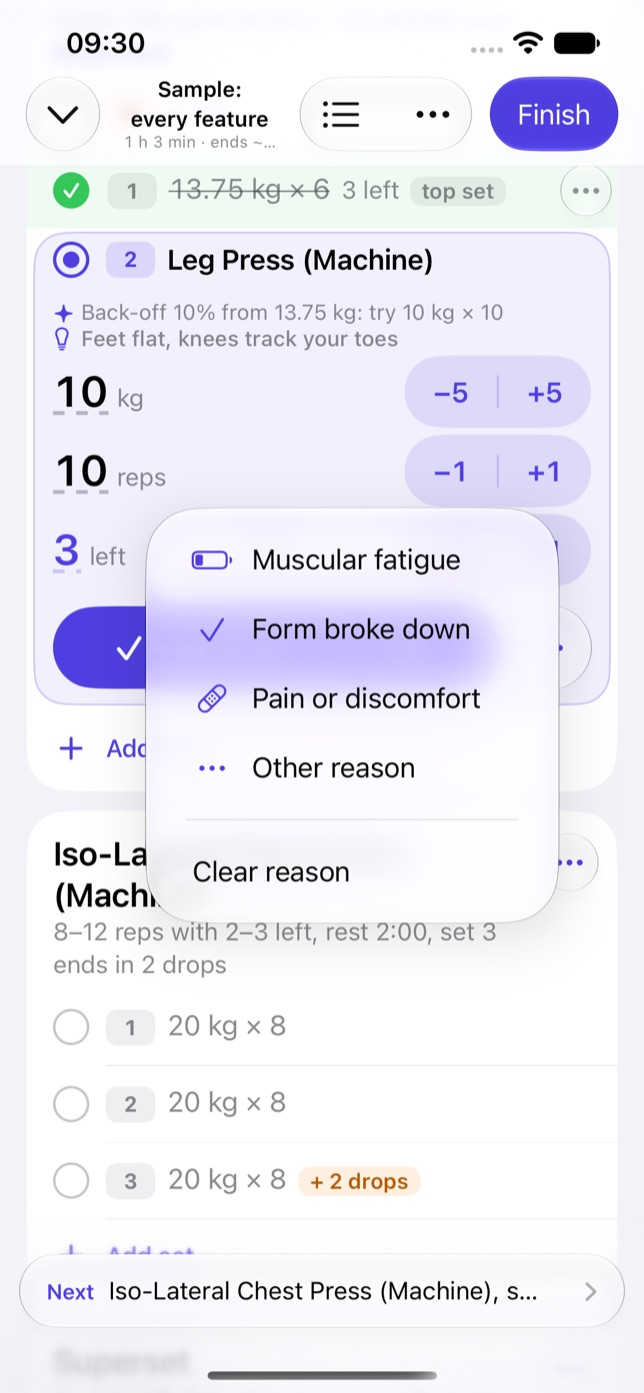
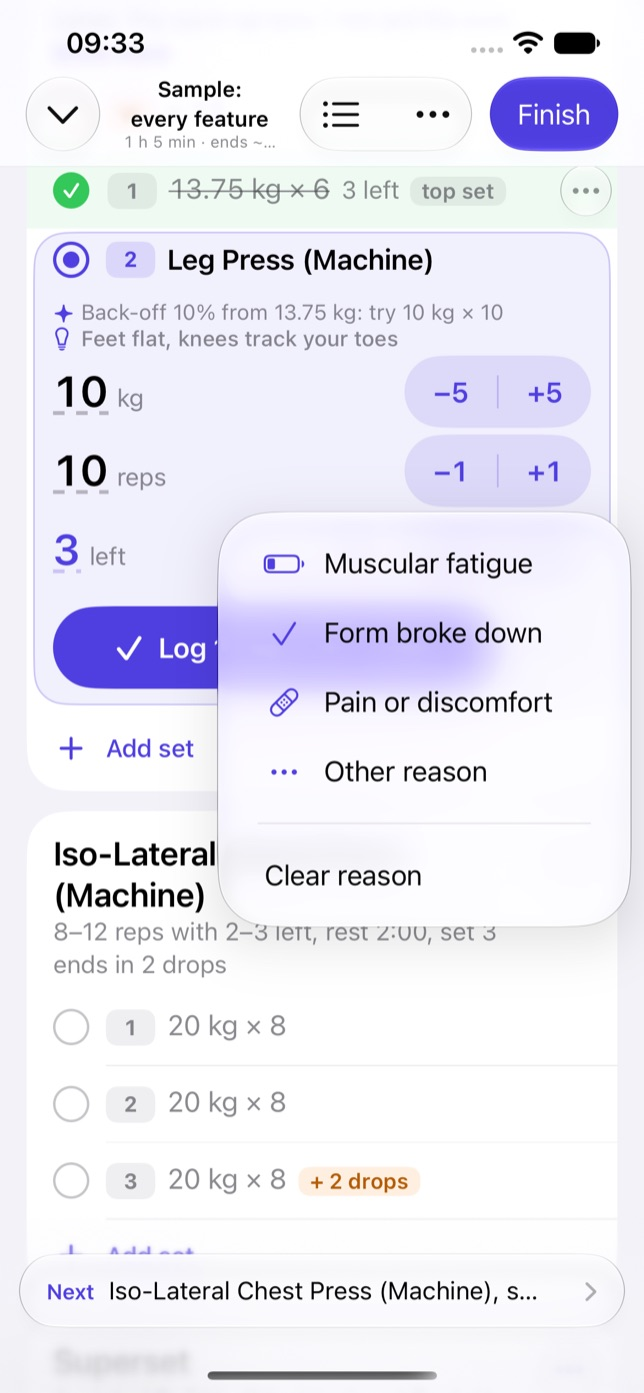
fix(workouts): the reset sits next to the steps on every row, why the set ended before it
On reps left the ? came between the reset and the steps, so the reset moved between rows; it is now in one column on all three. The screenshots are retaken on this build.

diff --git a/apps/workouts/apple/Sources/Views/Session/Rows/RowsEditorPanel.swift b/apps/workouts/apple/Sources/Views/Session/Rows/RowsEditorPanel.swift
@@ -406,8 +406,8 @@ private struct RowsLogVisibility: ViewModifier {
 
 /// One value row of the open set, the same for load, reps and reps left:
 /// the value on the left (its number, unit and last time under them), and
-/// on the right, under the thumb, its round buttons (the reset, why the set
-/// ended) and then the `−step +step` stepper. Where one row cannot hold them
+/// on the right, under the thumb, its round buttons (why the set ended,
+/// then the reset, always next to the steps) and then the `−step +step` stepper. Where one row cannot hold them
 /// (larger text) the buttons go under the stepper; at the accessibility
 /// sizes the buttons and the stepper go under the value.
 struct RowsValueRow<Value: View, Buttons: View>: View {
@@ -636,8 +636,8 @@ struct RowsStepper: View {
 
 /// Reps left, a third value row like load and reps: the number (drawn in
 /// the accent colour once it is the lifter's rating; a tap on the plan's
-/// value rates it as it is), its unit and last time under them, then the
-/// reset, why the set ended as a `?` button, and `−1 | +1`.
+/// value rates it as it is), its unit and last time under them, then why
+/// the set ended as a `?` button, the reset, and `−1 | +1`.
 struct RowsEffortRow: View {
     let effort: RowsEffort
     let tint: Color
@@ -649,10 +649,12 @@ struct RowsEffortRow: View {
         RowsValueRow(stepper: RowsStepper(minus: effort.minus, plus: effort.plus, tint: tint, onPatch: onPatch)) {
             value
         } buttons: {
-            RowsResetButton(reset: effort.reset, tint: tint, onPatch: onPatch)
+            // The reset next to the steps on every row, where it always is;
+            // why the set ended before it.
             if let stop = effort.stop {
                 RowsStopMenuButton(menu: stop, tint: tint, onPatch: onPatch)
             }
+            RowsResetButton(reset: effort.reset, tint: tint, onPatch: onPatch)
         }
     }
 

diff --git a/apps/workouts/DESIGN.md b/apps/workouts/DESIGN.md
@@ -2157,7 +2157,7 @@ the undo offer, whether the open editor is scrolled out of view) and compute no 
 | |     last 105                                 | |
 | |     8 reps                       ( −1 | +1 ) | |
 | |     last 10                                  | |
-| |     2 left             (↺)  (?)  ( −1 | +1 ) | |  <- reps left, and why the set ended, a menu
+| |     2 left             (?)  (↺)  ( −1 | +1 ) | |  <- reps left, and why the set ended, a menu
 | |     last 2                                   | |
 | | [       ✓ Log 110 kg × 8 · 2 left       ]    | |
 | +----------------------------------------------+ |
@@ -2253,7 +2253,8 @@ line when fixing). In order:
   changed, nor does what is written (owner, 2026-11-02). When the row is narrow (larger text) the round buttons go
   under the stepper; at the accessibility sizes the buttons and the stepper go under the value.
 - Reps left (`RowsEffort`, owner, 2026-11-05), a third value built like the others: the number, "left" (as the Log
-  button says it), `last` under them, the reset and why the set ended as round buttons, and "−1 | +1" under the thumb (on a timed or distance set, the scale's word,
+  button says it), `last` under them, why the set ended and then the reset as round buttons (the reset next to the
+  steps, where it is on every row, owner, 2026-11-06), and "−1 | +1" under the thumb (on a timed or distance set, the scale's word,
   "Hard", "effort", and Easier and Harder; §4.14). A long press on the number offers "Clear reps left". 0 to 4,
   where 4 reads "4+" (RPE 6, "could do 4 or more"); a value with a half point from an import or an older entry reads
   "1–2", and a step from it lands on the whole count beside it. The plan's value (and a pre-filled or copied one) is
@@ -2263,8 +2264,8 @@ line when fixing). In order:
   steps start from last time's rating, else 2. The value is still `rpe` on the RIR-based scale, RPE = 10 − reps
   left, so nothing that reads it changes (§4.14). Folded behind "Reps left" when there is nothing to show (a warm-up,
   a timed set, or a set with no planned effort and none last time).
-- Why the set ended (`RowsStopMenu`), on reps left's row of a working set, just left of its stepper (owner,
-  2026-11-06): a round button the size of the reset, "?" with none chosen, that lists "Muscular fatigue", "Form broke
+- Why the set ended (`RowsStopMenu`), on reps left's row of a working set, left of the reset beside its stepper
+  (owner, 2026-11-06): a round button the size of the reset, "?" with none chosen, that lists "Muscular fatigue", "Form broke
   down", "Pain or discomfort" and "Other reason" (`set.stopReason`: `fatigue`, `technique`, `pain`, `other`) and, once
   one is chosen, "Clear reason". The button then fills with the reason's symbol (`battery.25percent`,
   `figure.strengthtraining.traditional`, `bandage` in orange, `ellipsis`). A done line carries the word as a tag, as History does after the
